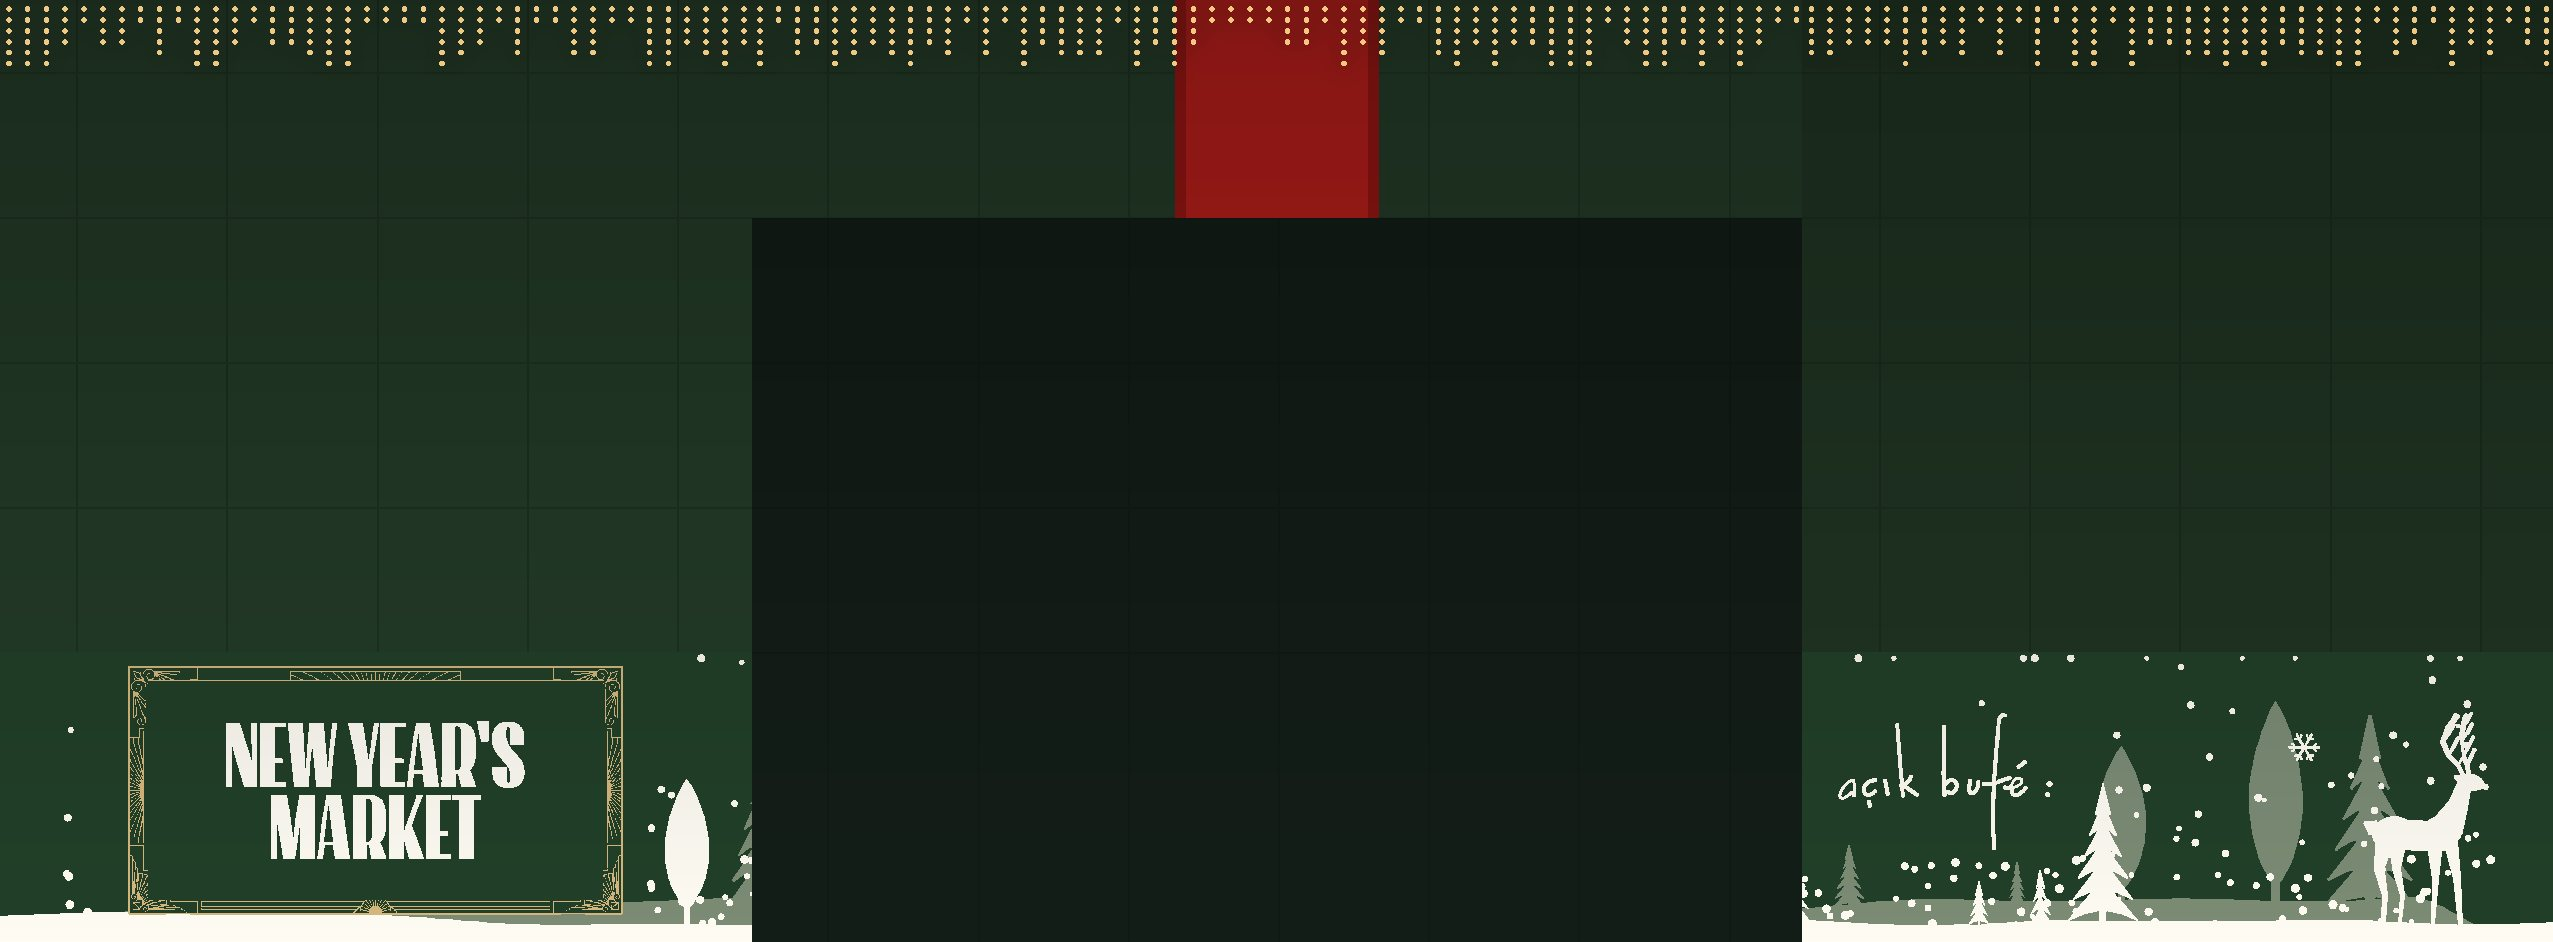
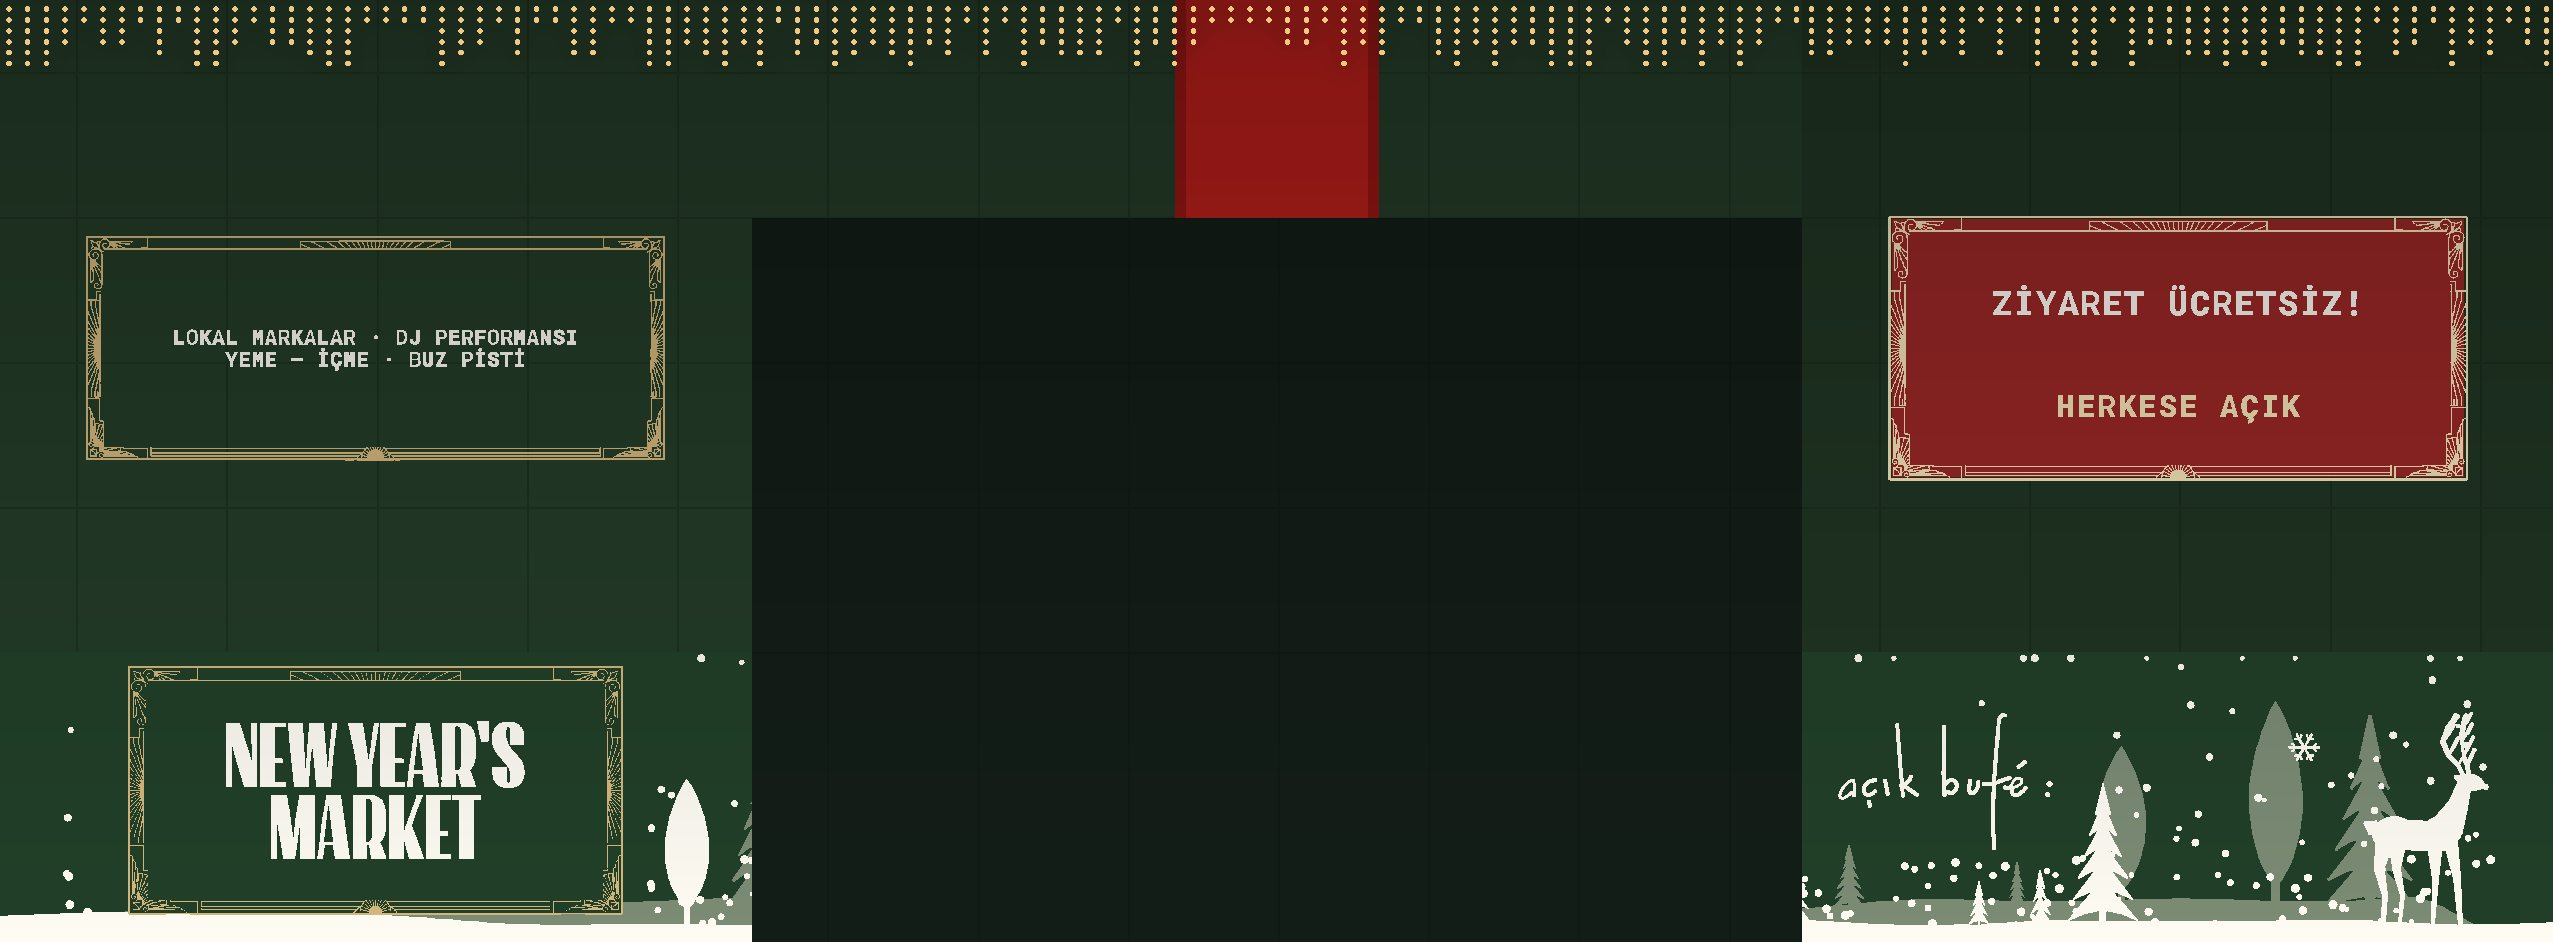
Üst mesh panelleri ve wall washer aydınlatma
Claude-Session: https://claude.ai/code/session_01PwMsb7QHkJtVZ3r2SNCFxZ

diff --git a/index.html b/index.html
@@ -28,6 +28,8 @@
   .lbl.logo{background:rgba(30,59,47,.92);border-color:var(--white);color:var(--white)}
   .lbl.ribbon{background:rgba(185,31,28,.92);border-color:#fff;color:#fff}
   .lbl.sign{background:rgba(40,44,120,.92);border-color:#9ea4ff;color:#dfe1ff}
+  .lbl.upper{background:rgba(155,40,39,.92);border-color:var(--cream);color:var(--cream)}
+  .lbl.ww{background:rgba(255,214,150,.95);border-color:#7a5a20;color:#3a2a10}
   .lbl.door{background:rgba(214,184,126,.95);border-color:var(--green);color:var(--green)}
   .lbl.box{background:var(--cream);border-color:var(--red);color:var(--red);font-size:12px;padding:4px 8px}
   .lbl.meas{background:#fff;border-color:#000;color:#000;font-size:12px}
@@ -43,13 +45,13 @@
 <body>
 <canvas id="c"></canvas>
 <div id="load">YÜKLENİYOR…</div>
-<header><h1>NEW YEAR'S MARKET · CEPHE 3D</h1><span class="sub">GALATAPORT · SAAT KULESİ MEYDANI · ALT 2 M MESH BASKI + KURDELE + TABELA</span></header>
+<header><h1>NEW YEAR'S MARKET · CEPHE 3D</h1><span class="sub">GALATAPORT · SAAT KULESİ MEYDANI · MESH BASKI + KURDELE + TABELA + WALL WASHER</span></header>
 <div class="bar">
   <div class="grp" id="views"><b>GÖRÜNÜM</b><button data-v="all">GENEL</button><button data-v="top">ÜSTTEN</button></div>
   <div class="grp" id="layers"><b>ETİKETLER</b>
     <button class="on" data-l="box">KUTU</button><button class="on" data-l="strip">BASKI PARÇASI</button>
     <button class="on" data-l="panel">NYM PANEL</button><button class="on" data-l="logo">LOGO</button>
-    <button class="on" data-l="ribbon">KURDELE</button><button class="on" data-l="sign">TABELA</button><button class="on" data-l="door">GİRİŞ</button>
+    <button class="on" data-l="upper">ÜST PANEL</button><button class="on" data-l="ww">WALL WASHER</button><button class="on" data-l="ribbon">KURDELE</button><button class="on" data-l="sign">TABELA</button><button class="on" data-l="door">GİRİŞ</button>
   </div>
   <div class="grp"><b>ARAÇ</b><button id="measure">ÖLÇ</button><button id="clear">TEMİZLE</button></div>
 </div>
@@ -84,6 +86,29 @@ ground.rotation.x=-Math.PI/2; ground.position.set(24,0,20); scene.add(ground);
 const grid=new THREE.GridHelper(200,40,0x5a5048,0x4a423b); grid.position.set(24,0.002,20); scene.add(grid);
 
 const pick=[]; const labels=[]; const boxCenters={};
+const washGroup=new THREE.Group(); scene.add(washGroup);
+const washTex=(()=>{const c=document.createElement('canvas');c.width=64;c.height=256;const x=c.getContext('2d');const im=x.createImageData(64,256);
+  for(let j=0;j<256;j++){const t=1-j/255; const v=Math.pow(1-t,1.7)*0.72+0.04*(1-t);
+    for(let i=0;i<64;i++){const u=i/63; const h=Math.min(1,Math.min(u,1-u)*5.5); const a=v*h*h;
+      const k=(j*64+i)*4; im.data[k]=255; im.data[k+1]=214; im.data[k+2]=150; im.data[k+3]=Math.round(255*a);}}
+  x.putImageData(im,0,0); const t=new THREE.CanvasTexture(c); t.colorSpace=THREE.SRGBColorSpace; return t;})();
+const washMat=new THREE.MeshBasicMaterial({map:washTex,transparent:true,blending:THREE.AdditiveBlending,depthWrite:false,side:THREE.DoubleSide});
+const fixMat=new THREE.MeshBasicMaterial({color:0x1d1d1f}); const ledMat=new THREE.MeshBasicMaterial({color:0xffe2b0});
+const poolMat=(()=>{const c=document.createElement('canvas');c.width=c.height=128;const x=c.getContext('2d');const g=x.createRadialGradient(64,64,0,64,64,64);g.addColorStop(0,'rgba(255,210,150,0.55)');g.addColorStop(1,'rgba(255,210,150,0)');x.fillStyle=g;x.fillRect(0,0,128,128);const t=new THREE.CanvasTexture(c);t.colorSpace=THREE.SRGBColorSpace;return new THREE.MeshBasicMaterial({map:t,transparent:true,blending:THREE.AdditiveBlending,depthWrite:false});})();
+function addWasher(s,w){
+  const n=s.n, x0=w.x-0.3, x1=w.x+w.W+0.3, yb=w.y-0.15, yt=w.y+w.H+0.9;
+  const P=(x,y,o)=>{const u=x-s.e0; return [s.p0[0]+s.d[0]*u+n[0]*o, y, s.p0[1]+s.d[1]*u+n[1]*o];};
+  const g=new THREE.BufferGeometry();
+  g.setAttribute('position',new THREE.Float32BufferAttribute([...P(x0,yb,0.03),...P(x1,yb,0.03),...P(x1,yt,0.03),...P(x0,yt,0.03)],3));
+  g.setAttribute('uv',new THREE.Float32BufferAttribute([0,0,1,0,1,1,0,1],2)); g.setIndex([0,1,2,0,2,3]);
+  washGroup.add(new THREE.Mesh(g,washMat));
+  const ang=Math.atan2(s.d[1],s.d[0]);
+  const off=w.mount==='ground'?0.45:0.1, fy=w.mount==='ground'?0.06:w.y-0.07;
+  const c=P(w.x+w.W/2,fy,off);
+  const fx=new THREE.Mesh(new THREE.BoxGeometry(w.W*0.92,0.08,0.14),fixMat); fx.position.set(...c); fx.rotation.y=-ang; washGroup.add(fx);
+  const led=new THREE.Mesh(new THREE.BoxGeometry(w.W*0.9,0.012,0.06),ledMat); led.position.set(c[0],c[1]+0.046,c[2]); led.rotation.y=-ang; washGroup.add(led);
+  if(w.mount==='ground'){const pool=new THREE.Mesh(new THREE.PlaneGeometry(w.W*1.3,1.6),poolMat); pool.rotation.x=-Math.PI/2; pool.rotation.z=-ang; const pc=P(w.x+w.W/2,0.012,0.5); pool.position.set(...pc); washGroup.add(pool);}
+}
 const dark=new THREE.MeshBasicMaterial({color:0x0c120e,side:THREE.DoubleSide});
 const roofTex=await tex('tex/roof.jpg');
 const roofMat=new THREE.MeshBasicMaterial({map:roofTex});
@@ -114,6 +139,7 @@ for(const bx of data.boxes){
     const gi=new THREE.BufferGeometry(); gi.setAttribute('position',new THREE.Float32BufferAttribute(posIn,3)); gi.setIndex(idx);
     scene.add(new THREE.Mesh(gi,dark));
   }
+  for(const w of bx.washers){const s=sides.find(s=>w.x+w.W/2>=s.e0-0.01&&w.x+w.W/2<=s.e0+s.L+0.01); if(s) addWasher(s,w);}
   // roof
   const rc=bx.roof.map(p=>new THREE.Vector2(p[0],p[1]));
   const rt=THREE.ShapeUtils.triangulateShape(rc,[]);
@@ -155,8 +181,8 @@ document.getElementById('views').addEventListener('click',e=>{const v=e.target.d
 camera.position.set(70,48,85); controls.target.copy(CEN);
 
 // layers
-const on={box:1,strip:1,panel:1,logo:1,ribbon:1,sign:1,door:1};
-document.getElementById('layers').addEventListener('click',e=>{const l=e.target.dataset?.l; if(!l) return; on[l]=!on[l]; e.target.classList.toggle('on',!!on[l]);});
+const on={box:1,strip:1,panel:1,logo:1,ribbon:1,sign:1,door:1,upper:1,ww:1};
+document.getElementById('layers').addEventListener('click',e=>{const l=e.target.dataset?.l; if(!l) return; on[l]=!on[l]; e.target.classList.toggle('on',!!on[l]); if(l==='ww') washGroup.visible=!!on[l];});
 
 // hover readout + measure
 const ray=new THREE.Raycaster(), mouse=new THREE.Vector2(); const info=document.getElementById('info');
@@ -170,7 +196,7 @@ canvas.addEventListener('pointermove',ev=>{
   const u=s.e0+(P.x-s.p0[0])*s.d[0]+(P.z-s.p0[1])*s.d[1]; const y=P.y;
   let t=`<span class="k">KUTU ${box}</span> · yükseklik ${fmt(y)} m`;
   if(y<2){const st=strips.find(q=>u>=q.x0&&u<=q.x1); if(st) t+=` · <span class="k">${st.code}</span> içinde soldan ${fmt(u-st.x0)} m / ${fmt(st.x1-st.x0)} m`; }
-  else t+=` · üst mesh (düz yeşil) · açılımda ${fmt(u)} m`;
+  else t+=` · üst mesh · yüzey açılımında ${fmt(u)} m`;
   info.innerHTML=t;
 });
 let mOn=false, mPts=[], mObjs=[];
